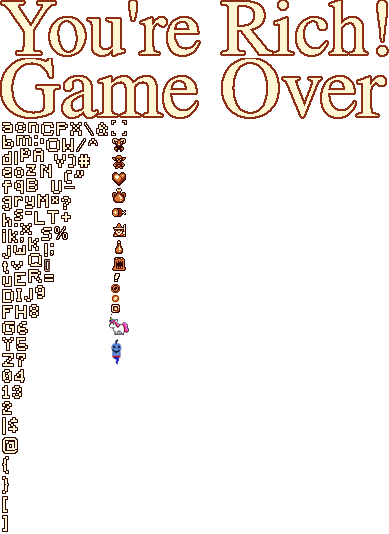
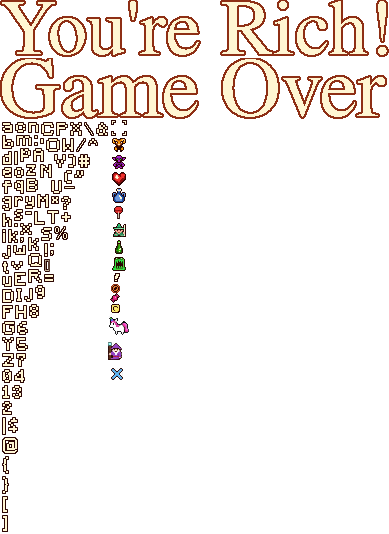
new characters

Changed region(s): [[0.2776, 0.2397, 0.3393, 0.5094], [0.2776, 0.5393, 0.3393, 0.7191]]

diff --git a/src/sprites/friend.js b/src/sprites/friend.js
@@ -1,36 +1,73 @@
 export default class Friend extends Phaser.GameObjects.Sprite {
   constructor(config) {
-    super(config.scene, config.x, config.y, 'atlas', 'friend');
+    super(config.scene, config.x, config.y, 'atlas', 'friend', config.text);
     config.scene.physics.world.enable(this);
-    
+
     this.scene = config.scene;
     this.number = config.number;
     // this.body.setDrag(250, 250);
     this.body.moves = false;
- 
+    this.textbox = false;
+    this.text =  config.text;
+
     this.playerDetected = false;
     this.detectionDistance = 64;
     this.canDecide = true;
-    
+
     this.scene.add.existing(this)
   }
 
-  // pickup () 
-  // {
-  //   this.sound.play();
-  //   let magic = this.scene.registry.get('magic_current'); //find out how much magic the player currently has
-  //   if (magic < this.scene.registry.get('magic_max')){
-  //     this.scene.registry.set('magic_current', magic + 5);  //update the player's current magic
-  //   }
-  // // query = this.scene.registry.get('')
-  //   magic = this.scene.registry.get('magic_current');
 
-  //   if (magic > this.scene.registry.get('magic_max')){//check to see if current magic exceeded max magic
-  //     this.scene.registry.set('magic_current', this.scene.registry.get('magic_max'));  //update the player's current magic
-  //   }
-  //   this.scene.registry.set(`${this.scene.registry.get('load')}_Potion_${this.number}`, 'picked'); //register this object as collected with game so it is not added to future intances of this level
-  //   this.scene.events.emit('magicChange'); //tell the scene the magic count has changed so the HUD is updated
-  //   this.destroy();
-  // }
+  friendTex() {
+
+    // console.log('hola');
+
+    var text = this.scene.add.text(this.x -55, this.y - 80, this.text, {
+      fontFamily: 'Courier',
+      fontSize: '11px',
+      fontStyle: '',
+      backgroundColor: "#FFC",
+      color: '#000',
+      stroke: '#fff',
+      strokeThickness: 0,
+      shadow: {
+          offsetX: 0,
+          offsetY: 0,
+          color: '#000',
+          blur: 0,
+          stroke: false,
+          fill: false
+      },
+      align: 'center',  // 'left'|'center'|'right'|'justify'
+      padding: {
+          left: 2,
+          right: 2,
+          top: 2,
+          bottom: 2,
+      },
+      maxLines: 0,
+      lineSpacing: 0,
+      fixedWidth: 0,
+      fixedHeight: 0,
+      rtl: false,
+      wordWrap: {
+          width: 140,
+          callback: null,
+          callbackScope: null,
+          useAdvancedWrap: false
+      },
+    });
+
+    const closeboton = this.scene.add.image(this.x -55, this.y - 80, 'atlas', 'close');
+
+    closeboton.setInteractive().on('pointerdown', () => {
+      // Ocultamos los elementos y cambiamos la variable para que se vuelva a poder activar 
+      closeboton.visible = false;
+      text.visible = false;
+      // this.textbox = false;
+
+    });
+
+  }
 
 }

diff --git a/src/scenes/Level.js b/src/scenes/Level.js
@@ -11,6 +11,7 @@ import Jug from '../sprites/jug.js';
 import Heart from '../sprites/heart.js';
 // add friend
 import Friend from '../sprites/friend.js';
+let mylevel;
 
 export default class Level extends Phaser.Scene {
   constructor() 
@@ -20,13 +21,15 @@ export default class Level extends Phaser.Scene {
     });
   }
 
+  
+
   create() 
   {
     this.cameras.main.setBackgroundColor(0x2a0503); 
     //point the variable at the registry which is assigned either at the Preload scene or just prior to level restart
     let load = this.registry.get('load');
-    console.log(load);
- 
+    console.log( " es este mi nivel???"+load);
+    mylevel=load;
     //load music based on registry value, loop, and play
     this.music = this.sound.add(`${load}Music`);
     this.music.setLoop(true);
@@ -95,7 +98,7 @@ export default class Level extends Phaser.Scene {
     this.physics.add.collider(this.player, this.layer);
     this.physics.add.collider(this.player, this.friends, this.friendTex);
     this.physics.add.collider(this.player, this.enemies, this.playerEnemy);
-    this.physics.add.collider(this.player, this.fiends);
+    this.physics.add.collider(this.player, this.friends);
     this.physics.add.collider(this.enemies, this.layer);
     this.physics.add.collider(this.enemies, this.enemies);
     this.physics.add.collider(this.playerAttack, this.layer, this.fireballWall);  //collide callback for fireball hitting wall
@@ -290,6 +293,7 @@ export default class Level extends Phaser.Scene {
           
             let friend = new Friend({
               scene: this,
+              text: "hoolaaaaaaa",
               x: object.x + 8, 
               y: object.y - 8,
               number: potNum
@@ -340,8 +344,31 @@ fireballFireball(fireball1, fireball2)
 
 // TEXT FRIEND
 friendTex(player, friend){
-  console.log('hola amigo')
+  if (friend.textbox===false){
+  
+    if(mylevel==="Level1"){
+      console.log(friend.text = "Este nivel 1 esta lleno de maravillas increibles que seguro disfrutaras");
+    }else if(mylevel==="Level2"){
+      console.log(friend.text = "Ten cuidado con los enemigos del nivel 2 son más fuertes d elo que te esperas");
+    }else if(mylevel==="Level3"){
+      console.log(friend.text = "Estamos en el nivel 3 enhorabuena! ");
+    }else if(mylevel==="Level4"){
+      console.log(friend.text = "YEah !! hemos llegado al nivel 4!!");
+    }else if(mylevel==="Level5"){
+      console.log(friend.text = "NIvel 5 el más complicado de todos, suerte!");
+    }
+
+    friend.friendTex();
+    friend.textbox=true;
+  }
 }
+
+
+// playerEnemy(player, enemy){
+//   if (enemy.alive){
+//     player.damage(enemy.attack);
+//   }
+// }
 
 newGame() 
 {
